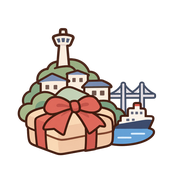
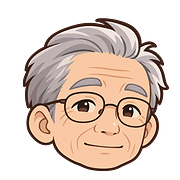
261110

diff --git a/index.html b/index.html
@@ -13,10 +13,11 @@
 <meta property="og:image:width" content="1200">
 <meta property="og:image:height" content="630">
 <meta name="twitter:card" content="summary_large_image">
-<link rel="icon" href="favicon.ico" sizes="any">
-<link rel="icon" type="image/png" sizes="32x32" href="img/favicon-32.png">
-<link rel="icon" type="image/png" sizes="64x64" href="img/favicon.png">
-<link rel="apple-touch-icon" href="img/apple-touch-icon.png">
+<link rel="icon" type="image/png" sizes="32x32" href="img/favicon-32.png?v=4">
+<link rel="icon" type="image/png" sizes="48x48" href="img/favicon-48.png?v=4">
+<link rel="icon" type="image/png" sizes="192x192" href="img/favicon-192.png?v=4">
+<link rel="icon" href="favicon.ico?v=4" sizes="16x16 32x32 48x48">
+<link rel="apple-touch-icon" href="img/apple-touch-icon.png?v=4">
 <link rel="preconnect" href="https://fonts.googleapis.com">
 <link href="https://fonts.googleapis.com/css2?family=Noto+Serif+KR:wght@500;700&family=Noto+Sans+KR:wght@400;500;700&display=swap" rel="stylesheet">
 <style>
